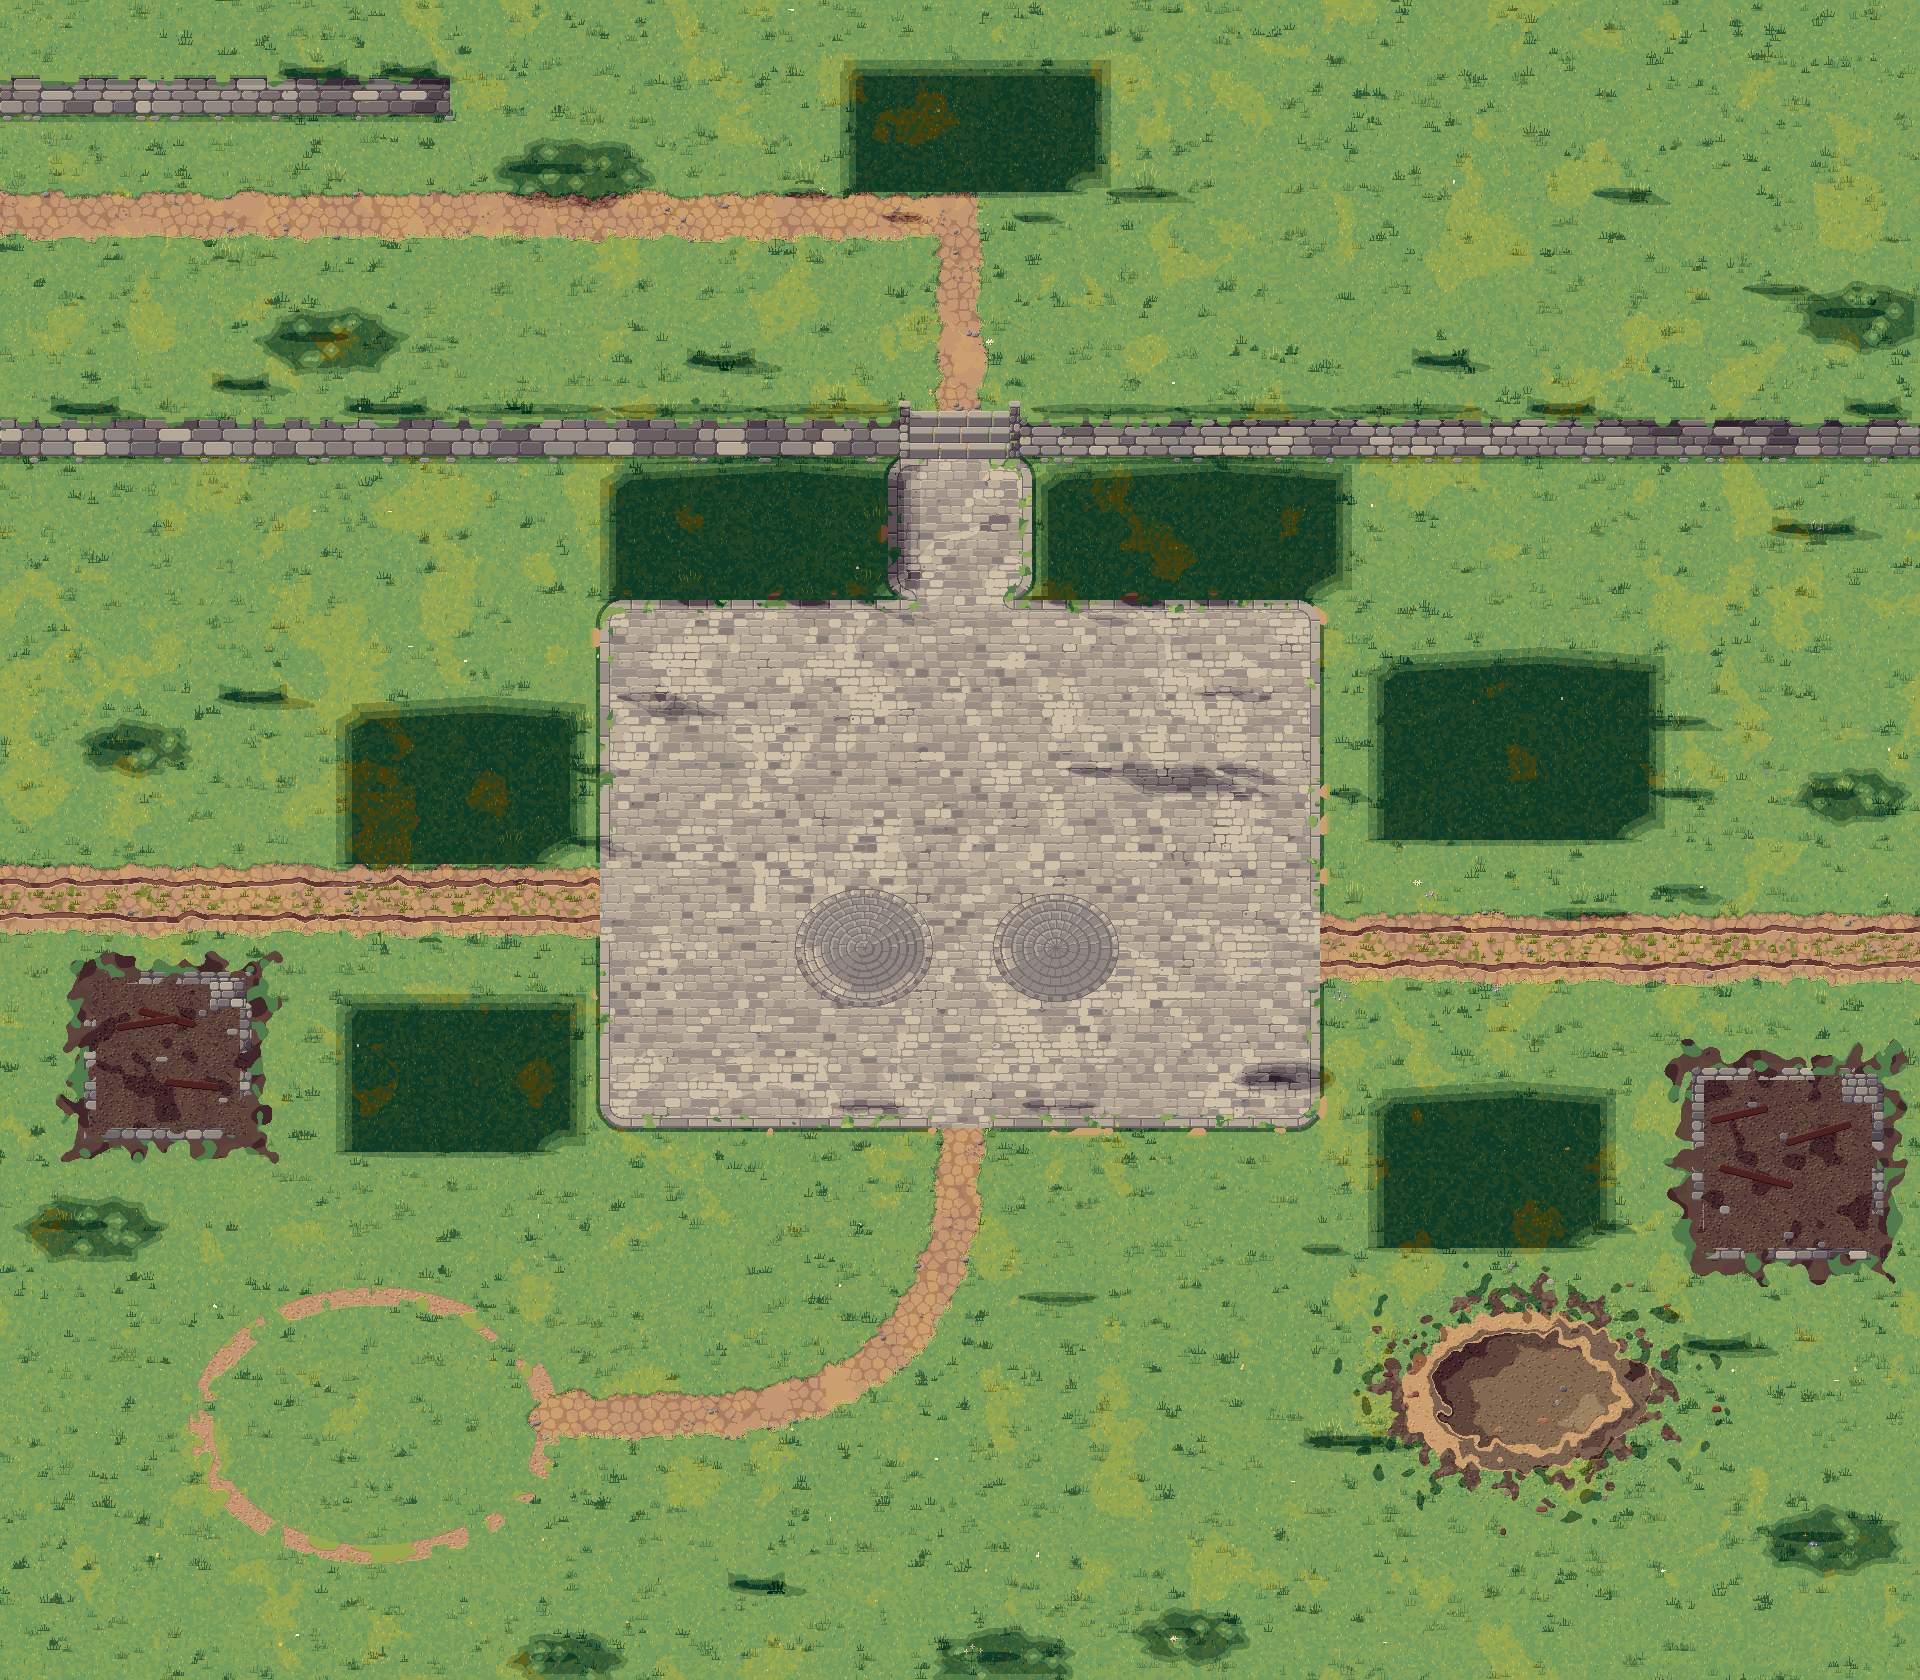
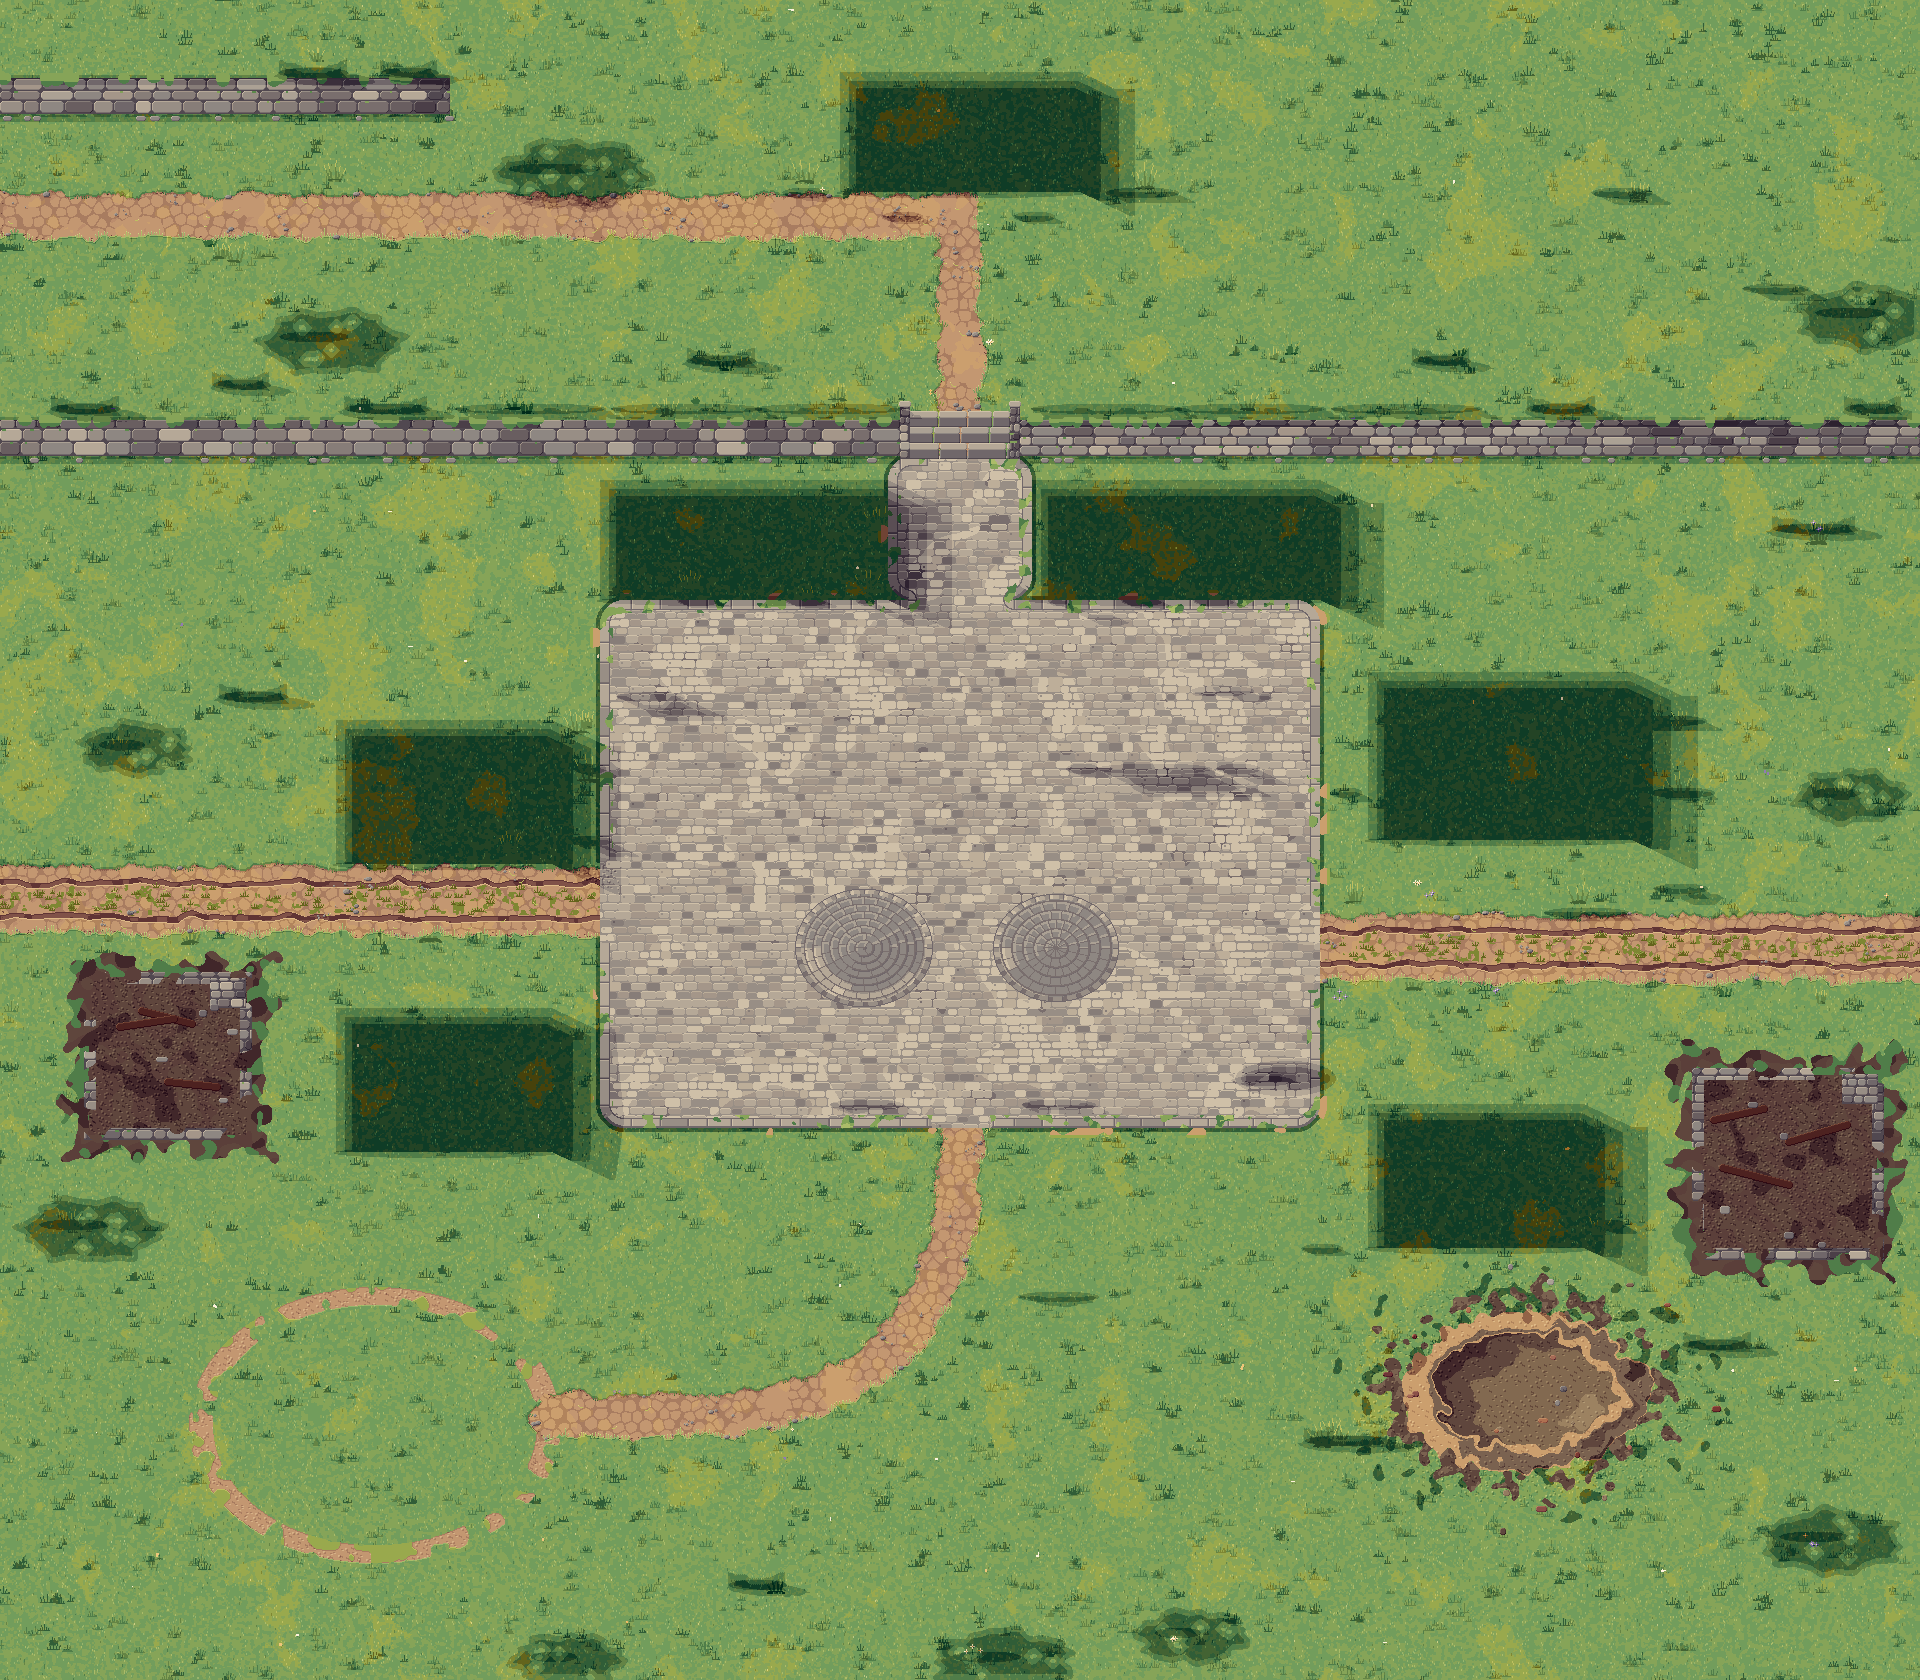
SUN2: Crossroads ground follows the one sun
Regenerated with gen_village.py crossroads from main 7e54059b: the seven
houses' ground columns are now volume.house_cast by game/data/sun.json
(south-east, light upper left) with SUN1's softer wedge, in place of the
old north-leaning columns. Only ground.png and kit.json's input hash change;
every sprite and condition shadow picture keeps its bytes.

Its asset record is re-recorded (review:asset --record): the bytes changed,
so the reviewer verdict is back to pending (Matt, 28 Nov: "Redraw and
re-review"). The placement gate refuses it until an independent
detail-auditor passes it. sun.json's _about and world-editor.md no longer say
the Crossroads keeps the old lean.

Claude-Session: https://claude.ai/code/session_01UudrmtYkicLNgZeuSjvjrK

diff --git a/docs/world-editor.md b/docs/world-editor.md
@@ -469,7 +469,7 @@ Every other piece whose `rendering.cast_shadow` has `shape: ellipse` casts by **
 
 The ellipse's `size` and `dir` are no longer read. The sets had written full widths there and the woodland half widths, and both renderers drew them as radii, centred on the foot. On main that made them a median 2.5 times the footprint (up to 5.4), reaching a median 16.5 texels west of it (up to 141). `test_kit.FootprintShadows` lays every variant alone with the reference renderer and measures what shows: the contact under the base, nothing west, the cast's full throw east, a core on every thick shadow, no fragment apart from the picture, and regressions for boulder b5, the gates' open leaves, the hens, the drove well, the broken cart and the muck heap.
 
-**The one sun.** `game/data/sun.json` holds the projection every cast shadow is thrown by: a texel h above the ground lands `cast[0]` h east and `cast[1]` h south (0.46 and 0.22). The painted zones' bake reads it (`scripts/art/sun.py`, `native/compose.SHADOW`, so the kit bake too), the prop masks are made from it (the index records it as `shadow.sun`), and the live ground reads the same file (`TerrainGround.sun()`; `KitPiece.shadow` warns when the masks were made for another sun). The biomes' old `shadow.project` copies are no longer read (`test_kit.Sun` holds them to the sun). Kit trees' crown masks (`props.crown_shadow`) and houses' volumes (`native/volume.house_cast`, in the kit index and the Crossroads painter alike) are thrown by it too, and their index entries record it as `shadow.sun` (Matt, 27 Nov: one fixed sun; shadows fall south-east; light from the upper left). A house's column ends south of its foot line in the wedge its front-east corner throws along the sun's ray, with nothing before its lit front, and steps three tones only within 7 world px of its walls (eastward-edges 11.6; Matt, 28 Nov: "Wedge, softer"). Night never rotates the sun: a day-night cycle would only soften or fade the shadows under the night tint. The Crossroads painted ground (`town.py`) is still drawn with the old house lean until it is regenerated and reviewed.
+**The one sun.** `game/data/sun.json` holds the projection every cast shadow is thrown by: a texel h above the ground lands `cast[0]` h east and `cast[1]` h south (0.46 and 0.22). The painted zones' bake reads it (`scripts/art/sun.py`, `native/compose.SHADOW`, so the kit bake too), the prop masks are made from it (the index records it as `shadow.sun`), and the live ground reads the same file (`TerrainGround.sun()`; `KitPiece.shadow` warns when the masks were made for another sun). The biomes' old `shadow.project` copies are no longer read (`test_kit.Sun` holds them to the sun). Kit trees' crown masks (`props.crown_shadow`) and houses' volumes (`native/volume.house_cast`, in the kit index and the Crossroads painter alike) are thrown by it too, and their index entries record it as `shadow.sun` (Matt, 27 Nov: one fixed sun; shadows fall south-east; light from the upper left). A house's column ends south of its foot line in the wedge its front-east corner throws along the sun's ray, with nothing before its lit front, and steps three tones only within 7 world px of its walls (eastward-edges 11.6; Matt, 28 Nov: "Wedge, softer"). Night never rotates the sun: a day-night cycle would only soften or fade the shadows under the night tint. The Crossroads painted ground (`town.py`) is drawn by it too since its redraw on 28 Nov (Matt: "Redraw and re-review"); its record went back to pending for independent review.
 
 **Not yet:** the `function` block wiring an `Interactable`, `Door`, `RestoreSite` or `Conditional`, and lights and looping effects from `rendering`.
 
